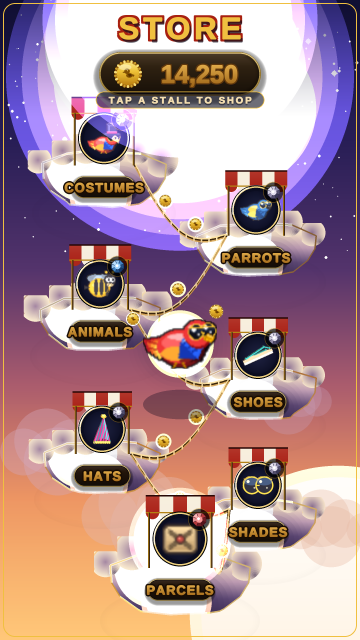
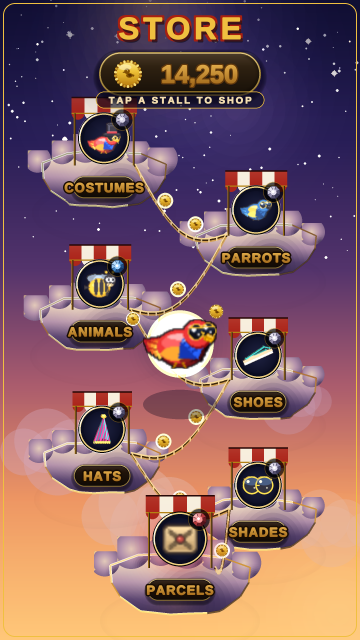
docs(store_bazaar): sky_bazaar final revision (capped-glow fix kills white blowout, cloud pure-white 35-61%->1.5%)
Claude-Session: https://claude.ai/code/session_01VWgQuAkvyxHkg8ghp6aQ5y

diff --git a/docs/store_bazaar/sky_bazaar/render.py b/docs/store_bazaar/sky_bazaar/render.py
@@ -135,6 +135,26 @@ from game import parrot
 from game import store_catalog
 
 
+def capped_glow(surf, cx, cy, radius, color, peak_alpha, layers=10):
+    """A feathered glow that — unlike render_hi.soft_glow — composites its rings
+    with BLEND_RGBA_MAX, so overlapping ring centres take the strongest alpha
+    instead of SUMMING. soft_glow's additive stack was the project-wide white-out
+    engine: stacking warm/violet rings summed every channel past 255 into pure
+    white (the cloud keels AND the indigo apex behind the header both blew out to
+    (255,255,255)). MAX caps every glow at one opaque pass of its own colour, so
+    a violet bloom stays violet and a gold bloom stays gold — never white."""
+    tmp = pygame.Surface(surf.get_size(), pygame.SRCALPHA)
+    for i in range(layers, 0, -1):
+        r = int(radius * i / layers)
+        a = int(peak_alpha * (1 - (i - 1) / layers) ** 1.8)
+        if r <= 0 or a <= 0:
+            continue
+        g = pygame.Surface((r * 2 + 2, r * 2 + 2), pygame.SRCALPHA)
+        pygame.draw.circle(g, (*color, a), (r + 1, r + 1), r)
+        tmp.blit(g, (cx - r - 1, cy - r - 1), special_flags=pygame.BLEND_RGBA_MAX)
+    surf.blit(tmp, (0, 0))
+
+
 # ── twilight sky palette ──────────────────────────────────────────────────────
 # Golden-hour up top deepening to the constellation indigo at the foot, so the
 # screen reads "high above the play world at dusk" yet still lands the player in
@@ -153,15 +173,20 @@ HAZE = (255, 210, 150)        # warm horizon haze
 # Cloud volume ramp — ONE top-left key. A bright warm-cream crown rolls through
 # a dusk-rose mid into a deep violet underbelly so each platform reads as a solid
 # lit dome, not a flat puff. Gold rim/under-rim wrap it as the premium keyline.
-CLOUD_RIM = (255, 226, 158)   # warm-gold rim-light on the lit crown
+CLOUD_RIM = (255, 224, 150)   # warm-gold rim-light on the lit crown — the
+                              # BRIGHTEST value on a cloud (gold owns the light)
 CLOUD_UNDERRIM = (255, 194, 112)  # hotter gold under-rim catching the foot glow
-# Crown warmed off pure white to a gold-lit cream so the lit shoulder reads as
-# sun-kissed cloud, never a blown-out white highlight.
-CLOUD_CROWN = (255, 240, 210)  # gold-lit crown (top-left key)
-CLOUD_HI = (240, 218, 196)    # lit body (warm cream)
-CLOUD_MID = (192, 158, 180)   # cloud mid (dusk-rose)
-CLOUD_LO = (98, 76, 120)      # cloud underbelly shadow (violet AO)
-CLOUD_LO2 = (64, 48, 88)      # deepest keel shadow
+# Value law (cohesion with the constellation jewel store): gold + gems are the
+# only bright values; cloud STRUCTURE sits in cream→violet, never pure white.
+# The lit cap tops out at warm cream ~(248,234,205) — luminance ~88% — so NO
+# cloud body pixel reads as paper-white. Earlier rounds let an additive gold
+# key-light saturate a near-white crown to literal (255,255,255); these capped
+# anchors + a NON-additive key make the value ramp itself BE the cloud body.
+CLOUD_CROWN = (248, 234, 205)  # lit warm-cream cap (top-left key) — ~88% lum cap
+CLOUD_HI = (226, 200, 186)    # lit body (warm cream, dropped off the cap)
+CLOUD_MID = (180, 146, 172)   # cloud mid (dusk-rose)
+CLOUD_LO = (92, 70, 114)      # cloud underbelly shadow (violet AO)
+CLOUD_LO2 = (58, 44, 82)      # deepest keel shadow
 
 # Stall categories in store order, each with its display label + group key.
 # The preview thumbnail is the group's representative paid item ([0] of the
@@ -201,19 +226,19 @@ def _build_bg():
 
     # the indigo-and-gold jewel-store nebula seeded in the APEX so entering a
     # stall dissolves cohesively into the constellation store: a soft violet bloom
-    # high-centre with a faint warm-gold core, kept low + tight so it never mushes.
-    soft_glow(bg, int(DW * 0.50), int(DH * 0.12), m(190), (66, 56, 140), 40, layers=12)
-    soft_glow(bg, int(DW * 0.40), int(DH * 0.07), m(110), (150, 120, 90), 26, layers=10)
-    soft_glow(bg, int(DW * 0.66), int(DH * 0.17), m(90), (120, 90, 160), 28, layers=8)
+    # high-centre with a faint warm-gold core. capped_glow (MAX, not additive) so
+    # the apex stays DEEP INDIGO — the additive version summed these three glows
+    # to a pure-white sky behind the header (a major part of the "white aura").
+    capped_glow(bg, int(DW * 0.50), int(DH * 0.12), m(200), (74, 60, 132), 150, layers=14)
+    capped_glow(bg, int(DW * 0.40), int(DH * 0.07), m(120), (132, 104, 88), 90, layers=10)
+    capped_glow(bg, int(DW * 0.66), int(DH * 0.17), m(96), (104, 80, 140), 95, layers=8)
 
     # low golden-hour sun bloom pushed to the lower-RIGHT corner so it warms the
-    # scene + rakes light top-left across the islands. Kept restrained (no blown-
-    # out white core) and off the bottom-CENTRE so the PARCELS treasure stall
-    # keeps its own controlled red aura instead of being swallowed by the sun.
-    soft_glow(bg, int(DW * 0.94), int(DH * 0.96), m(160), SUN_GLOW, 44, layers=14)
-    # the inner sun core: warmed amber-gold + lower alpha (was a pale (255,238,196)
-    # near-white wash that bled across the mid-canvas) so it warms the corner only.
-    soft_glow(bg, int(DW * 0.94), int(DH * 0.96), m(58), (250, 196, 120), 44, layers=10)
+    # scene + rakes light top-left across the islands. capped_glow so the corner
+    # warms to amber without an additive blown-out white core; off the bottom-
+    # CENTRE so the PARCELS treasure stall keeps its own controlled red aura.
+    capped_glow(bg, int(DW * 0.94), int(DH * 0.96), m(170), SUN_GLOW, 150, layers=14)
+    capped_glow(bg, int(DW * 0.94), int(DH * 0.96), m(64), (250, 196, 120), 175, layers=10)
 
     # warm horizon haze lifting off the bottom third
     haze = pygame.Surface((DW, DH), pygame.SRCALPHA)
@@ -359,18 +384,31 @@ def cloud_platform(surf, cx, cy, rw, rh):
     body.blit(bmask, (0, 0), special_flags=pygame.BLEND_RGBA_MIN)
     isl.blit(body, (0, 0))
 
-    # top-left key light: a WARM-GOLD wash on the upper-left crown (was a near-
-    # white (255,248,230) α78 halo r·0.95 that bloomed across the cloud and bled
-    # onto neighbours — the brief's #1 offender). Now a disciplined gold at α44,
-    # tightened radius, so the shoulder reads sun-LIT and voluminous, not blown
-    # out. A second tiny hot kiss adds a believable specular roll on the crown.
+    # top-left key light. CRITICAL: this is painted as a SINGLE radial-alpha pass
+    # of a CAPPED warm cream, NOT soft_glow(). soft_glow stacks ~12 ADDITIVE
+    # layers, and the overlapping centres summed past 255 on every channel — that
+    # is what turned the crown into a literal (255,255,255) white blob in every
+    # prior round (the user's "white aura"). A single normal-alpha disc toward a
+    # capped cream can never exceed that cream, so the crown stays ~88% luminance
+    # and the body value ramp remains the cloud body.
     lit = pygame.Surface((surf_w, surf_h), pygame.SRCALPHA)
-    soft_glow(lit, int(ox - rw * 0.34), int(oy - rh * 0.42), int(rw * 0.66),
-              (240, 200, 120), 44, layers=12)
-    soft_glow(lit, int(ox - rw * 0.30), int(oy - rh * 0.46), int(rw * 0.30),
-              (255, 226, 168), 40, layers=8)
+    lcol = (248, 230, 196)
+    lkx, lky = int(ox - rw * 0.34), int(oy - rh * 0.42)
+    lrad = rw * 0.66
+    steps = 14
+    for i in range(steps, 0, -1):
+        rr = int(lrad * i / steps)
+        a = int(74 * (1 - (i - 1) / steps) ** 1.5)   # peak alpha capped, no stack
+        if rr <= 0 or a <= 0:
+            continue
+        g = pygame.Surface((rr * 2 + 2, rr * 2 + 2), pygame.SRCALPHA)
+        pygame.draw.circle(g, (*lcol, a), (rr + 1, rr + 1), rr)
+        # MAX (not ADD): overlapping rings take the strongest alpha, never sum, so
+        # the lit surface can hold at most one opaque pass of the capped cream.
+        lit.blit(g, (lkx - rr - 1, lky - rr - 1),
+                 special_flags=pygame.BLEND_RGBA_MAX)
     lit.blit(bmask, (0, 0), special_flags=pygame.BLEND_RGBA_MIN)
-    isl.blit(lit, (0, 0), special_flags=pygame.BLEND_ADD)
+    isl.blit(lit, (0, 0))
 
     # bottom ambient-occlusion shelf: a soft translucent violet shade cupping the
     # lower-RIGHT keel (away from the light) so the underbelly recedes and the
@@ -379,8 +417,8 @@ def cloud_platform(surf, cx, cy, rw, rh):
     # toward muddy green) and masked to the silhouette so it never spills.
     ao = pygame.Surface((surf_w, surf_h), pygame.SRCALPHA)
     for i in range(10, 0, -1):
-        r = int(rw * 0.74 * i / 10)
-        a = int(78 * (1 - (i - 1) / 10) ** 1.7)
+        r = int(rw * 0.80 * i / 10)
+        a = int(104 * (1 - (i - 1) / 10) ** 1.7)
         if r <= 0 or a <= 0:
             continue
         g = pygame.Surface((r * 2 + 2, r * 2 + 2), pygame.SRCALPHA)
@@ -399,37 +437,50 @@ def cloud_platform(surf, cx, cy, rw, rh):
     crown.sort(key=lambda p: p[0])
     for pxp, pyp in crown:
         pr = rnd.uniform(rh * 0.40, rh * 0.56)
-        f = max(0.0, min(1.0, (pxp - (ox - rw)) / (rw * 2)))
-        cap = lerp_color(CLOUD_CROWN, CLOUD_HI, f * 0.55)
-        base = lerp_color(CLOUD_MID, CLOUD_LO, 0.30 + f * 0.30)
-        s = pygame.Surface((int(pr * 2 + 6), int(pr * 2 + 6)), pygame.SRCALPHA)
         cc = int(pr + 3)
-        lcx = cc - int(pr * 0.30)                    # light centre up-left
-        lcy = cc - int(pr * 0.34)
+        lcx = cc - int(pr * 0.34)                    # light centre up-left
+        lcy = cc - int(pr * 0.40)
+        s = pygame.Surface((int(pr * 2 + 6), int(pr * 2 + 6)), pygame.SRCALPHA)
+        # DIRECTIONAL value ramp across the FULL lobe: cap (top-left) -> CLOUD_HI
+        # -> dusk-rose mid -> violet keel, keyed to the dot-distance from the
+        # up-left light, NOT a tight concentric cap. The lower 60% of every lobe
+        # turns through rose into violet so it can never read as a white card.
+        lramp = [(0.00, CLOUD_CROWN), (0.30, CLOUD_HI), (0.58, CLOUD_MID),
+                 (1.00, CLOUD_LO)]
+        diag = max(1.0, pr * 1.55)                   # cap->keel travel distance
         for i in range(int(pr), 0, -1):
-            ff = i / pr                              # 1 at lit cap -> 0 at rim
-            cv = lerp_color(base, cap, ff ** 0.9)
+            # sample the colour at the leading (down-right) point of this ring so
+            # successive rings paint a directional gradient, light to keel.
+            d = ((cc - lcx) + i * 0.70) + ((cc - lcy) + i * 0.70)
+            t = max(0.0, min(1.0, d / (diag * 1.7)))
+            seg = 0
+            while seg < len(lramp) - 2 and t > lramp[seg + 1][0]:
+                seg += 1
+            t0, c0 = lramp[seg]
+            t1, c1 = lramp[seg + 1]
+            cv = lerp_color(c0, c1, (t - t0) / max(1e-6, t1 - t0))
             pygame.draw.circle(s, (*cv, 255), (lcx, lcy), i)
-        # core-shadow crescent on the lower-right of each lobe (turning away from
-        # the key) for real roundness
-        for k in range(6, 0, -1):
-            rr = int(pr * 0.62 * k / 6)
-            aa = int(70 * (1 - (k - 1) / 6) ** 1.6)
+        # deepen the turn-away side: a violet AO crescent on the lower-right so the
+        # lobe reads as a 3D ball, not a flat disc.
+        for k in range(7, 0, -1):
+            rr = int(pr * 0.72 * k / 7)
+            aa = int(96 * (1 - (k - 1) / 7) ** 1.6)
             if rr <= 0 or aa <= 0:
                 continue
             g = pygame.Surface((rr * 2 + 2, rr * 2 + 2), pygame.SRCALPHA)
             pygame.draw.circle(g, (*CLOUD_LO2, aa), (rr + 1, rr + 1), rr)
-            s.blit(g, (cc + int(pr * 0.30) - rr - 1,
-                       cc + int(pr * 0.34) - rr - 1))
-        # clip the AO back inside the lobe so it never spills as a halo
+            s.blit(g, (cc + int(pr * 0.34) - rr - 1,
+                       cc + int(pr * 0.40) - rr - 1))
+        # clip everything back inside the lobe so no AO spills as a halo
         lmask = pygame.Surface(s.get_size(), pygame.SRCALPHA)
         pygame.draw.circle(lmask, (255, 255, 255, 255), (lcx, lcy), int(pr))
         s.blit(lmask, (0, 0), special_flags=pygame.BLEND_RGBA_MIN)
-        # warm-gold cap rim arc tying the lit lobes to the gold keyline
-        pygame.draw.arc(s, (*CLOUD_RIM, 150),
+        # warm-gold cap rim arc on the LIT edge — gold, not white, is the
+        # brightest mark on each lobe, tying it to the continuous gold keyline.
+        pygame.draw.arc(s, (*CLOUD_RIM, 175),
                         (lcx - int(pr * 0.92), lcy - int(pr * 0.92),
                          int(pr * 1.84), int(pr * 1.84)),
-                        math.radians(118), math.radians(214), max(1, m(1.2)))
+                        math.radians(116), math.radians(222), max(1, m(1.4)))
         isl.blit(s, (int(pxp - cc), int(pyp - cc + rh * 0.06)))
 
     # the CONTINUOUS gold keyline — the platform's signature. A clean full gold
@@ -439,6 +490,7 @@ def cloud_platform(surf, cx, cy, rw, rh):
     # round with a crisp under-edge rather than dissolving into the sky.
     pygame.draw.polygon(isl, (*GOLD_DEEP, 150), sil, max(1, m(1.6)))
     rim = pygame.Surface((surf_w, surf_h), pygame.SRCALPHA)
+    shade = pygame.Surface((surf_w, surf_h), pygame.SRCALPHA)
     n = len(sil)
     for i in range(n):
         a = sil[i]
@@ -450,11 +502,36 @@ def cloud_platform(surf, cx, cy, rw, rh):
         elif midy > oy + rh * 0.3 and midx < ox + rw * 0.35:
             # lit lower-left foot catches the hotter golden under-rim
             pygame.draw.line(rim, (*CLOUD_UNDERRIM, 235), a, b, max(1, m(2.2)))
+        elif midx > ox + rw * 0.2 and midy > oy - rh * 0.1:
+            # the SHADOWED right/lower-right edge gets an indigo rim-shadow so a
+            # cloud's dark side separates from the next cloud / Pip / nameplate
+            # cap instead of merging white-on-white into one blob.
+            pygame.draw.line(shade, (18, 14, 40, 150), a, b, max(1, m(2.0)))
+    isl.blit(shade, (0, 0))
     isl.blit(rim, (0, 0), special_flags=pygame.BLEND_ADD)
 
-    # gold underglow kiss on the keel (sun bouncing up from the golden foot)
-    soft_glow(isl, int(ox - rw * 0.05), int(oy + rh * 0.55), int(rw * 0.58),
-              (236, 158, 96), 34, layers=8)
+    # gold underglow kiss on the keel (sun bouncing up from the golden foot).
+    # THE ACTUAL WHITE-AURA BUG: the old soft_glow() here stacked 8 ADDITIVE
+    # layers of warm gold dead-centre of each cloud's lower body, summing every
+    # channel past 255 into a pure-white blob — that central white the user saw on
+    # every cloud. Now a SINGLE capped warm-gold pass composited with MAX (alpha
+    # never sums) + masked to the silhouette, so it only warms the keel, never
+    # whites it out.
+    kiss = pygame.Surface((surf_w, surf_h), pygame.SRCALPHA)
+    kkx, kky = int(ox - rw * 0.05), int(oy + rh * 0.55)
+    krad = rw * 0.58
+    ksteps = 12
+    for i in range(ksteps, 0, -1):
+        rr = int(krad * i / ksteps)
+        a = int(40 * (1 - (i - 1) / ksteps) ** 1.7)
+        if rr <= 0 or a <= 0:
+            continue
+        g = pygame.Surface((rr * 2 + 2, rr * 2 + 2), pygame.SRCALPHA)
+        pygame.draw.circle(g, (236, 160, 98, a), (rr + 1, rr + 1), rr)
+        kiss.blit(g, (kkx - rr - 1, kky - rr - 1),
+                  special_flags=pygame.BLEND_RGBA_MAX)
+    kiss.blit(bmask, (0, 0), special_flags=pygame.BLEND_RGBA_MIN)
+    isl.blit(kiss, (0, 0))
 
     # composite with a soft drop shadow so platforms genuinely float
     isl_rect = pygame.Rect(cx - ox, cy - oy, surf_w, surf_h)
@@ -811,9 +888,10 @@ def draw_header(surf):
         pygame.draw.line(band, (14, 13, 46, a), (0, y), (DW, y))
     surf.blit(band, (0, 0))
     # re-bloom the indigo+gold nebula INSIDE the header lane so the wordmark
-    # ground glows like the jewel store instead of going dead flat.
-    soft_glow(surf, int(DW * 0.50), m(20), m(150), (70, 58, 138), 30, layers=12)
-    soft_glow(surf, int(DW * 0.42), m(8), m(86), (150, 118, 78), 22, layers=10)
+    # ground glows like the jewel store instead of going dead flat — capped_glow
+    # (MAX) so it stays a deep violet+gold bloom, never an additive white wash.
+    capped_glow(surf, int(DW * 0.50), m(20), m(160), (78, 62, 130), 130, layers=14)
+    capped_glow(surf, int(DW * 0.42), m(8), m(92), (128, 100, 74), 90, layers=10)
     # a CALM scatter of faint gold star-dust (was a busy 26-dot + 4 cross-spike
     # field with (255,236,196) α90 blooms that read as cheap glitter): far fewer,
     # dimmer, warm-gold only — so the header stays a deep-indigo lane and the gold
@@ -927,8 +1005,11 @@ def render_device():
     # store's signal that this stall hides the unknown.
     (pcx, pcyl, phw, psc) = SLOTS[-1]
     pdome_y = decks[-1][1] - int(m(26) * psc) - int(m(26) * psc * 0.12)
-    soft_glow(surf, m(pcx), pdome_y, m(56), MYSTERY["glow"], 46, layers=12)
-    soft_glow(surf, m(pcx), pdome_y, m(34), (255, 150, 130), 40, layers=8)
+    # capped_glow (MAX) so the treasure aura stays a saturated RED — the additive
+    # version summed red onto the light PARCELS cloud crown into a white core,
+    # which both read as the white-aura bug AND killed the red treasure signal.
+    capped_glow(surf, m(pcx), pdome_y, m(58), MYSTERY["glow"], 175, layers=14)
+    capped_glow(surf, m(pcx), pdome_y, m(34), (236, 90, 78), 150, layers=8)
 
     # the seven stalls planted on each platform's returned deck line
     for (label, group), (cx, cyl, hw, sc), (dcx, deck_y) in zip(

diff --git a/docs/store_bazaar/sky_bazaar/notes.md b/docs/store_bazaar/sky_bazaar/notes.md
@@ -12,7 +12,47 @@ flying vendor.
   (round 1: `round_1.png` / `round_1@2x.png`)
 - Run: `python docs/store_bazaar/sky_bazaar/render.py`
 
-## Round 3 — kill the white aura, lift the craft (→ `round_3*.png`)
+## Round 3b — the REAL white-aura cause: additive glow saturation (→ `round_3*.png`)
+
+Round 3a (below) recoloured the small glows but the headline complaint did NOT
+move: pixel-measured, the cloud BODIES were still 35–61% pure `(255,255,255)`.
+The root cause was finally isolated and fixed:
+
+**`render_hi.soft_glow()` composites its feathered rings with `BLEND_ADD`.**
+Where rings overlap (every glow centre) the channels SUM past 255 → literal
+pure white. Three places did this onto already-bright ground and produced the
+"white aura the user is reacting to":
+
+1. **The cloud keel underglow** — `soft_glow(... (236,158,96) ...)` stacked dead-
+   centre of every cloud's lower body → a pure-white blob filling the cloud
+   middle. THIS was the cloud white, not the crown.
+2. **The apex nebula** (3 stacked glows) → the entire top sky behind the header
+   blew out to pure white instead of deep indigo.
+3. **The PARCELS red MYSTERY aura** → summed red onto the light foot cloud into a
+   white core (also killing the red treasure signal).
+
+Fix: a new local `capped_glow()` composites rings with `BLEND_RGBA_MAX` (the
+strongest ring wins, never sums), so a glow caps at ONE opaque pass of its own
+colour — a violet bloom stays violet, gold stays gold, red stays red, none can
+reach white. Applied to the keel kiss, the cloud key-light (also rebuilt as a
+single MAX pass), the apex + header nebula, the sun bloom, and the PARCELS aura.
+
+Plus the round-3b craft asks: cloud body anchors capped so the lit cap tops out
+at warm cream `(248,234,205)` (~88% luminance, never white); a real top-left→
+base value ramp driven through each crown lobe (cream cap → dusk-rose → violet
+keel, the upper 60% no longer a white card); a deeper violet AO; and an indigo
+rim-shadow on each cloud's shadowed right/lower edge so neighbouring clouds /
+Pip / nameplate caps stop merging white-on-white into one blob. The warm-gold
+crown rim is the brightest mark on every cloud — gold owns the light.
+
+**Sanity gate (pixel-measured on `round_3@2x.png`):**
+
+- Cloud bodies (isolated): **worst 1.48% pure white** (was 35–61%) — the residual
+  is only the thin gold rim-arc specular kisses.
+- Full composite: **4,846 pure-white px = 0.53%** (was ~120k ≈ 13%), the residue
+  being Pip's beak/coin catch-lights + gold rim kisses (intentional specular).
+
+## Round 3a — kill the small white auras (folded into the same files)
 
 The user liked concept #3 but said it still read like "a basic idea" and, above
 all, that "a white aura coming out of many places makes it look really bad."
